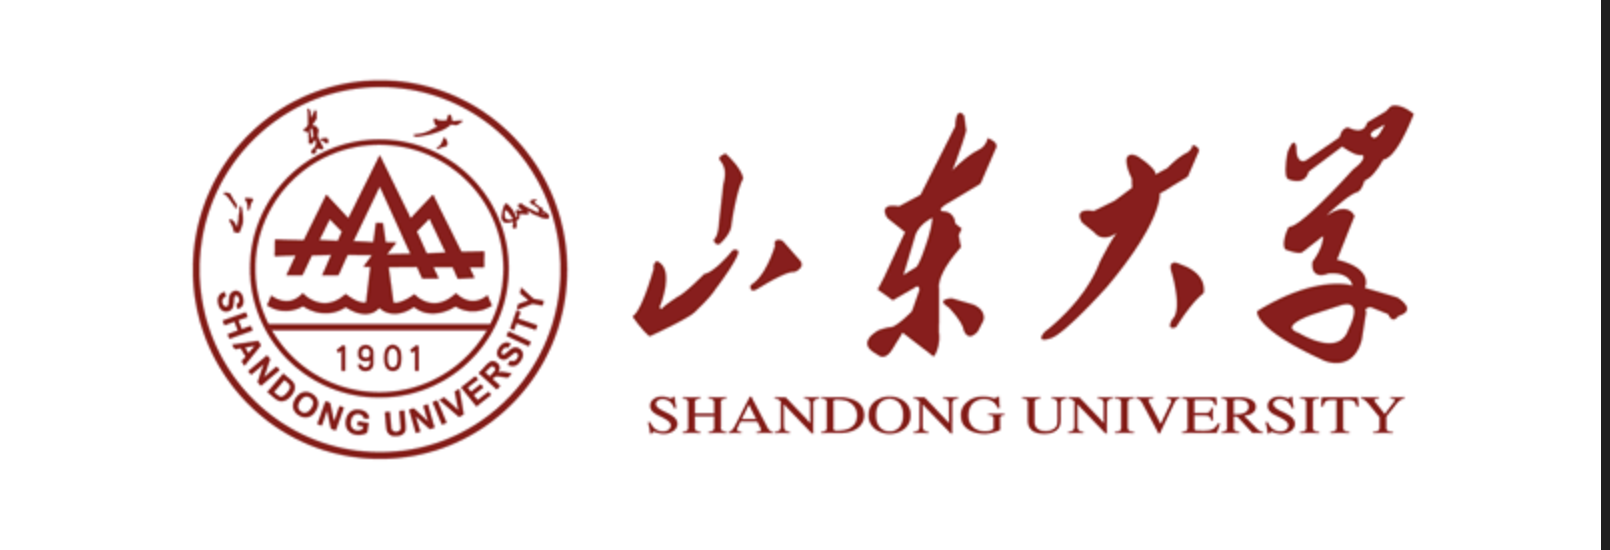
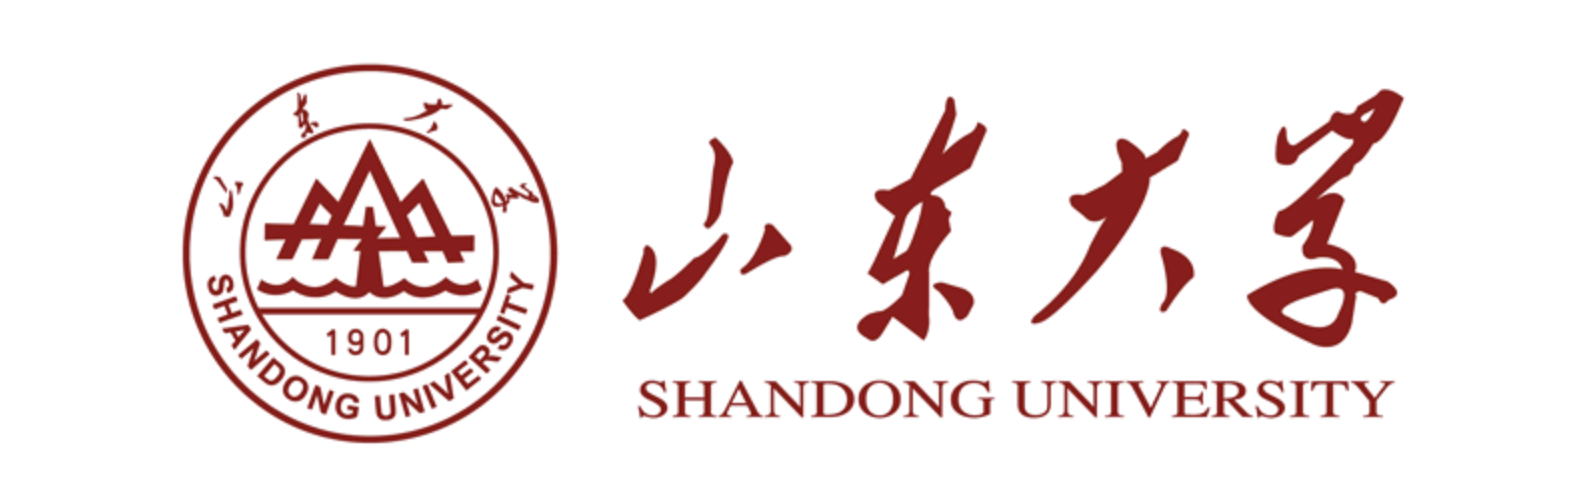
更新了首页内容和样式

Changed region(s): [[0.0933, 0.12, 0.9016, 0.9], [0.4042, 0.72, 0.9016, 0.84], [0.9949, 0.0, 1.0, 1.0]]

diff --git a/_pages/about.md b/_pages/about.md
@@ -59,7 +59,7 @@ September 2024 - Now
 </div>
 </div>
 
-<div class='paper-box'><div class='paper-box-image'><div><img src='images/sdu3.png' alt="sym" width="95%"></div></div>
+<div class='paper-box'><div class='paper-box-image'><div><img src='images/sdu.png' alt="sym" width="95%"></div></div>
 <div class='paper-box-text' markdown="1">
 
 <span style="font-size:18px;">**Huazhong University of Science and Technology**</span>
